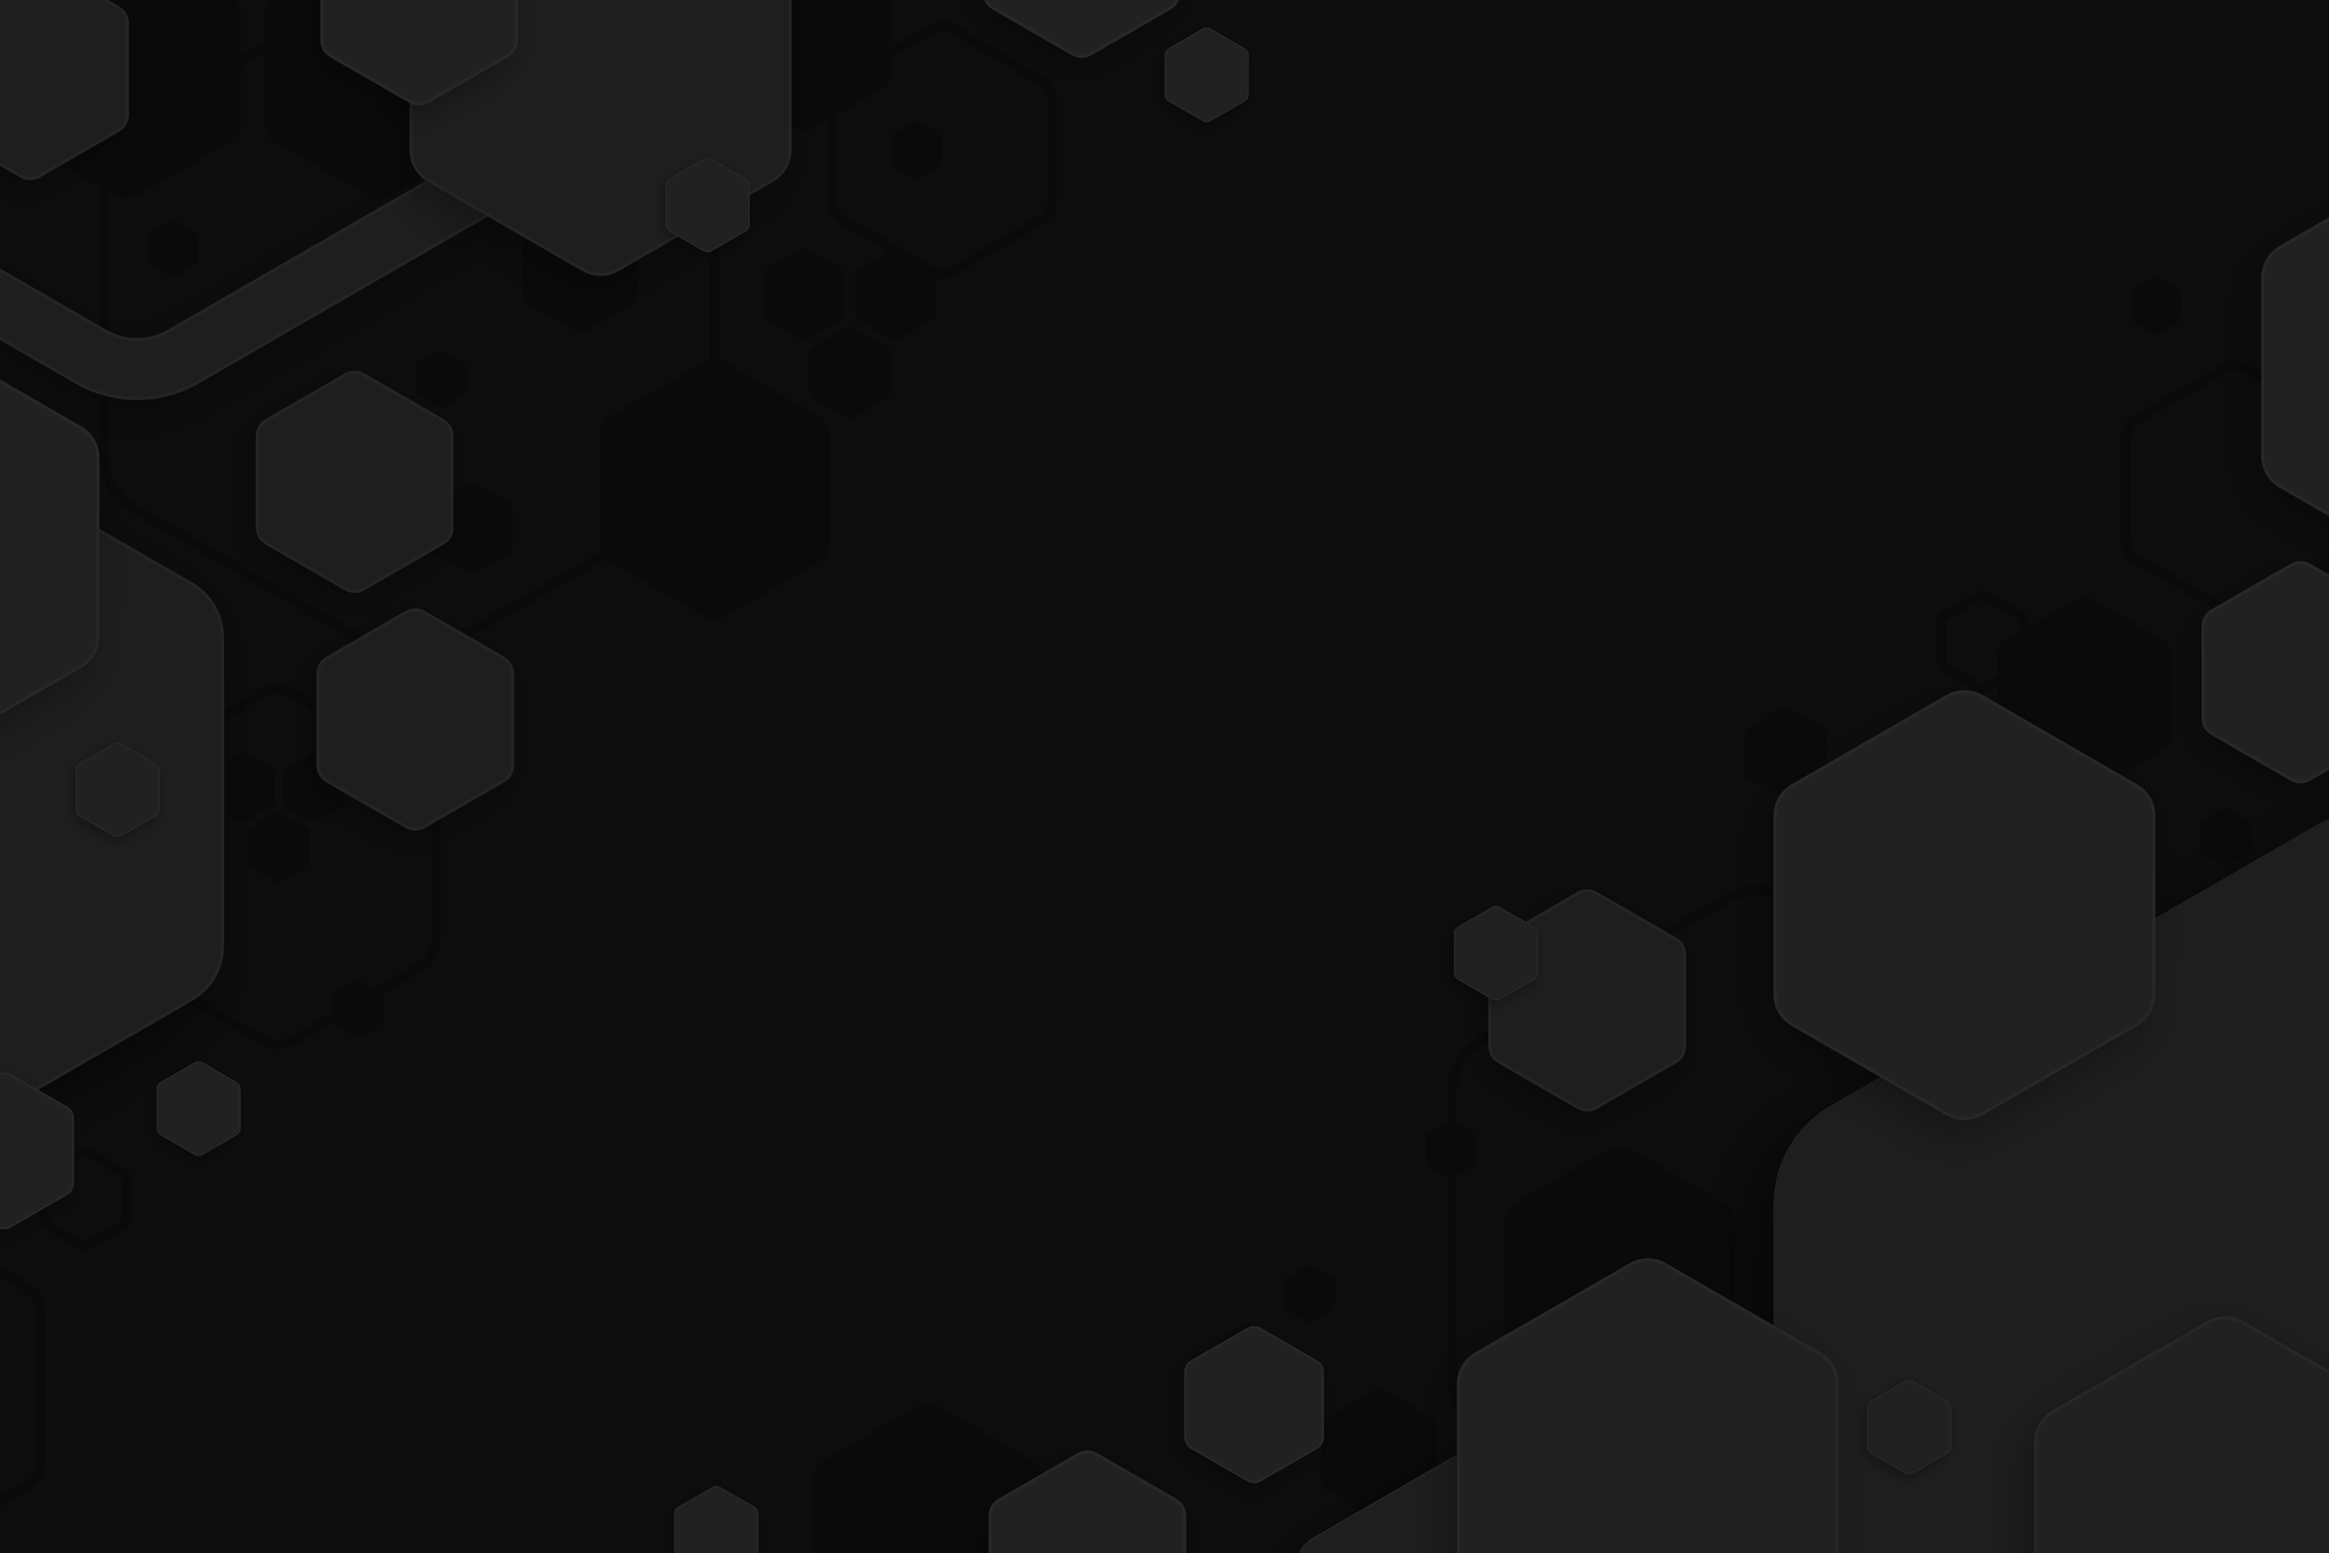
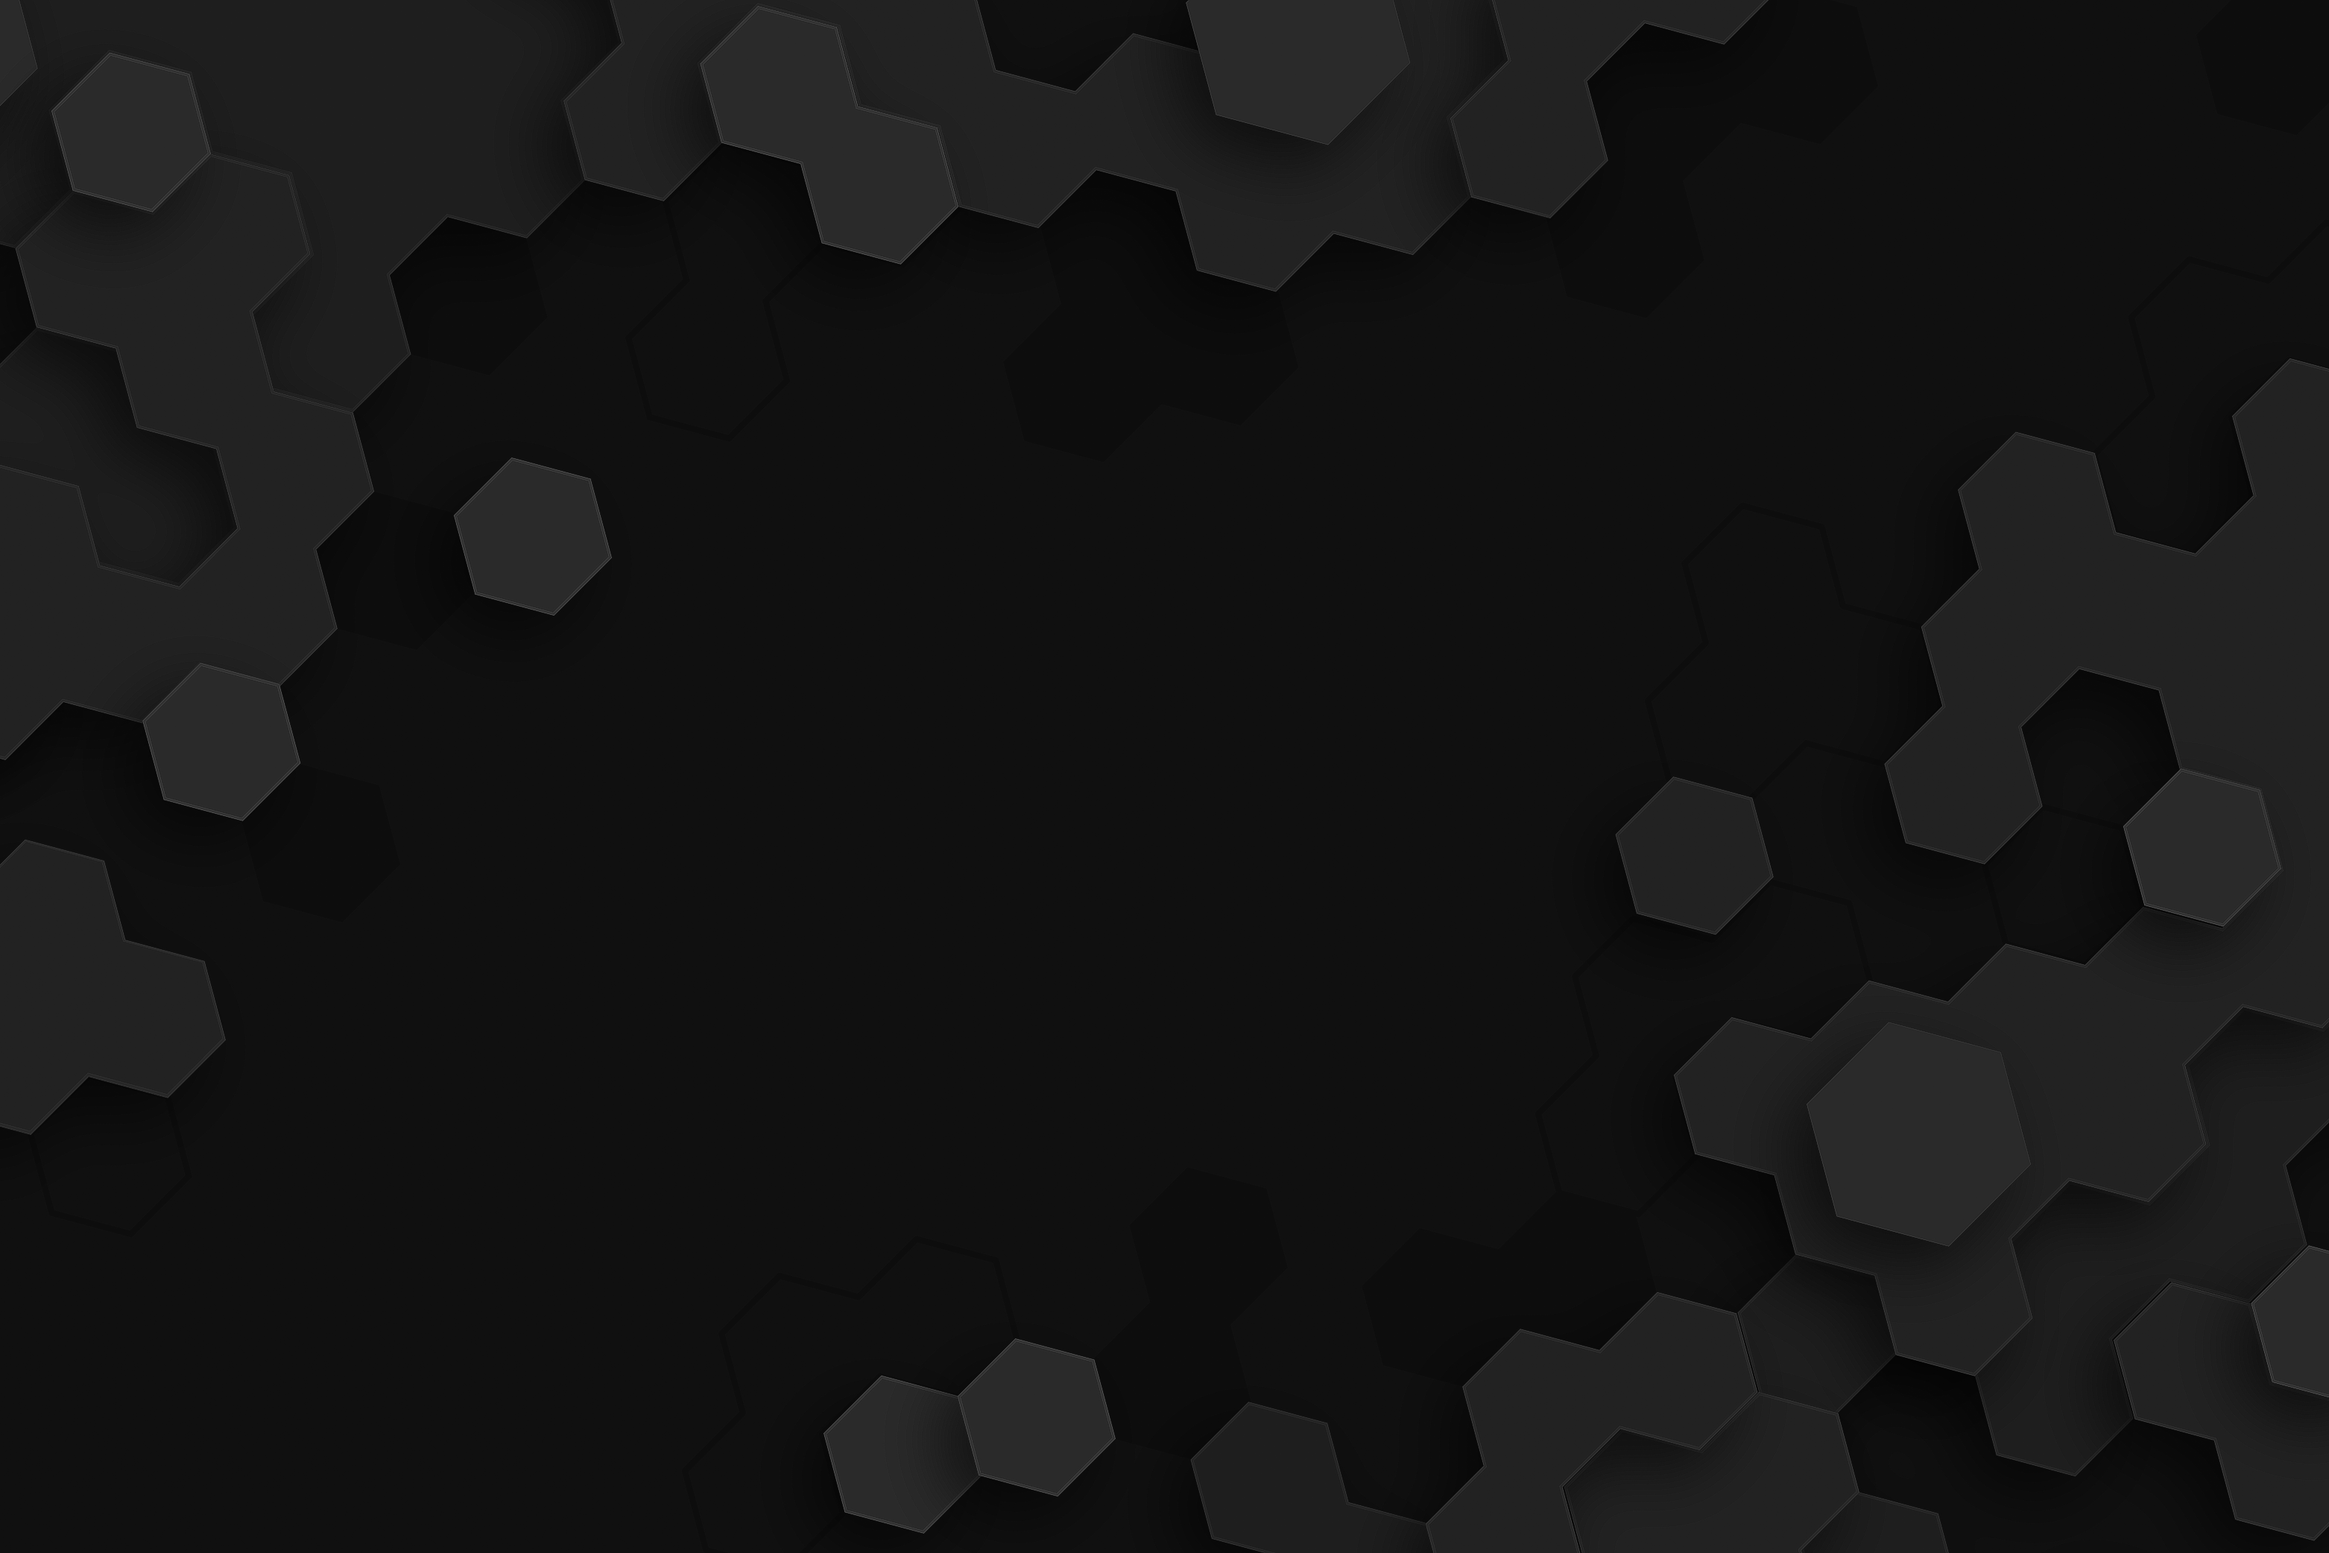
13.5.1

diff --git a/css/index.css b/css/index.css
@@ -20,7 +20,7 @@
 }
 
 body {
-  background: url('../images/background_honeycomb_two.png') no-repeat
+  background: url('../images/background_honeycomb_local.png') no-repeat
   top center fixed;
   background-size: cover;
   text-align: center;
@@ -34,7 +34,7 @@ body {
 html::before {
   content: ' ';
   display: block;
-  background-image: url('../images/background_honeycomb_two.png');
+  background-image: url('../images/background_honeycomb_local.png');
   background-position: center;
   background-size: cover;
   height: 100vh; width: 100vw;
@@ -54,14 +54,14 @@ html::before {
 .navbar-brand {
   color: rgb(223, 145, 28) ;
   background-color: transparent!important;
-  font-size: 20px;
+  font-size: 23px;
 }
 .navbar-brand:hover {
   color: rgb(223, 28, 174)!important; 
 }
 .nav-link {
   color: rgb(223, 28, 174)!important;
-  font-size: 20px;
+  font-size: 22px;
 }
 
 .nav-link:hover {

diff --git a/css/comingsoon.css b/css/comingsoon.css
@@ -53,14 +53,14 @@ html::before {
 .navbar-brand {
   color: rgb(132, 67, 253)!important;  
   background-color: transparent !important;
-  font-size: 20px;
+  font-size: 23px;
 }
 .navbar-brand:hover {
   color: rgb(205, 212, 255)!important;  
 }
 .nav-link {  
   color: rgb(205, 212, 255)!important;
-  font-size: 20px;
+  font-size: 22px;
 }
 
 .nav-link:hover {

diff --git a/css/collection.css b/css/collection.css
@@ -54,14 +54,14 @@ html::before {
 .navbar-brand {
   color: rgb(255, 69, 45)!important;  
   background-color: transparent!important;
-  font-size: 20px;
+  font-size: 23px;
 }
 .navbar-brand:hover {
   color: rgb(205, 103, 253)!important; 
 }
 .nav-link {
   color: rgb(205, 103, 253)!important; 
-  font-size: 20px;
+  font-size: 22px;
 }
 
 .nav-link:hover {

diff --git a/css/nextlevel.css b/css/nextlevel.css
@@ -56,14 +56,14 @@ html::before {
 .navbar-brand {
   color: rgb(248, 114, 36)!important;
   background-color: transparent!important;
-  font-size: 20px;
+  font-size: 23px;
 }
 .navbar-brand:hover {
   color: rgb(180, 210, 255)!important;  
 }
 .nav-link {
   color: rgb(180, 210, 255)!important;
-  font-size: 20px;
+  font-size: 22px;
 }
 
 .nav-link:hover {

diff --git a/css/reviews.css b/css/reviews.css
@@ -53,14 +53,14 @@ html::before {
 .navbar-brand {
   color: rgb(204, 250, 37)!important;  
   background-color: transparent !important;
-  font-size: 20px;
+  font-size: 23px;
 }
 .navbar-brand:hover {
   color: rgb(0, 175, 73)!important;
 }
 .nav-link {  
   color: rgb(0, 175, 73)!important;
-  font-size: 20px;
+  font-size: 22px;
 }
 
 .nav-link:hover {

diff --git a/css/evaluation.css b/css/evaluation.css
@@ -53,14 +53,14 @@ html::before {
 .navbar-brand {
   color: rgb(60, 0, 172)!important;
   background-color: transparent !important;
-  font-size: 20px;
+  font-size: 23px;
 }
 .navbar-brand:hover {
   color: rgb(223, 28, 174)!important; 
 }
 .nav-link {
   color: rgb(223, 28, 174)!important;
-  font-size: 20px;
+  font-size: 22px;
 }
 
 .nav-link:hover {

diff --git a/css/games.css b/css/games.css
@@ -54,14 +54,14 @@ html::before {
 .navbar-brand {
   color: rgb(252, 191, 100)!important; 
   background-color: transparent!important;
-  font-size: 20px;
+  font-size: 23px;
 }
 .navbar-brand:hover {
   color: rgb(255, 81, 0)!important;
 }
 .nav-link {
   color: rgb(255, 81, 0)!important;
-  font-size: 20px;
+  font-size: 22px;
 }
 
 .nav-link:hover {

diff --git a/css/imprint.css b/css/imprint.css
@@ -64,14 +64,14 @@ html::before {
 .navbar-brand {
   color:  rgb(248, 0, 74)!important;
   background-color: transparent !important;
-  font-size: 20px;
+  font-size: 23px;
 }
 .navbar-brand:hover {
   color: rgb(53, 73, 255)!important;
 }
 .nav-link {
   color: rgb(53, 73, 255)!important;
-  font-size: 20px;
+  font-size: 22px;
 }
 
 .nav-link:hover {

diff --git a/evaluation.php b/evaluation.php
@@ -13,7 +13,7 @@
       <link rel="stylesheet" href="css/evaluation.css">    
       <!-- Favicon -->
       <meta name="schoeppach" content="&nbsp;">
-      <link rel="icon" type="image/png" href="favicon/favicon_orange.png">
+      <link rel="icon" type="image/png" href="favicon/favicon_schoeppach.png">
       <link rel="apple-touch-icon-precomposed" sizes="180x180" href="favicon/apple-touch-icon-180x180.png">    
 
 </head>
